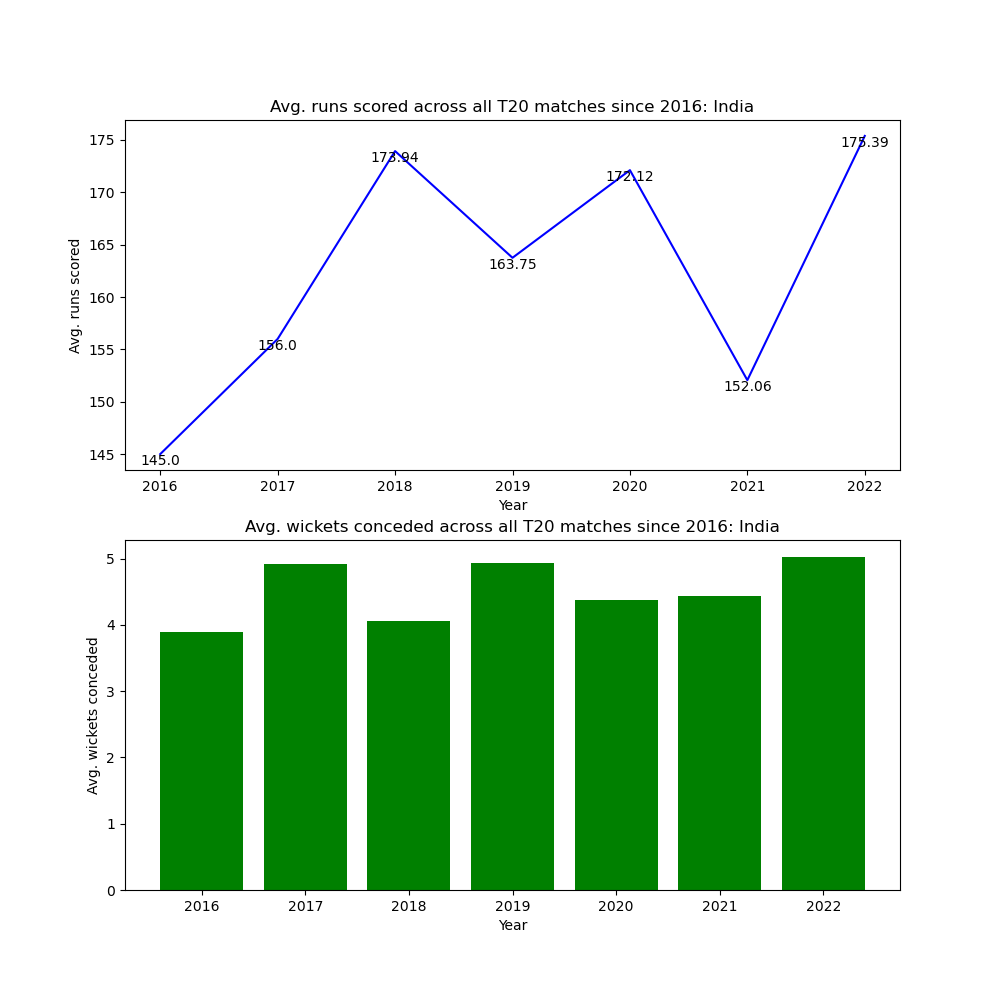
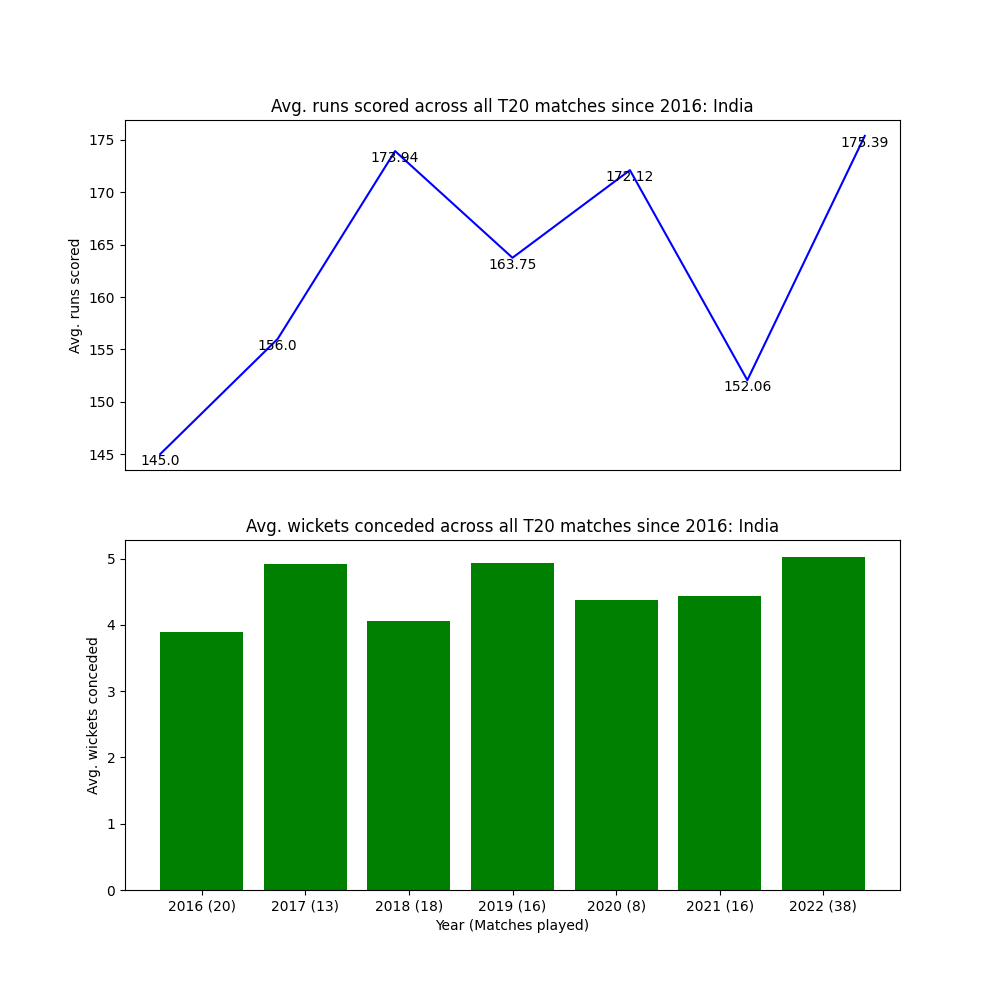
updated win-loss ordering and changed x axis for plot2

diff --git a/DataVisualization/plots_1_2_3.py b/DataVisualization/plots_1_2_3.py
@@ -155,6 +155,9 @@ def make_plots_2(db, team_1, team_2 = "All"):
         country_data = country_data.loc[(country_data['team_B'] == team_2)]
 
     years = np.sort(list(country_data.year.unique())) 
+    num_matches = []
+    num_matches_bat = []
+    num_matches_ball = []
 
     for year_ref in years:
         year_data = country_data.loc[(country_data['year'] == year_ref)]
@@ -202,6 +205,9 @@ def make_plots_2(db, team_1, team_2 = "All"):
         except:
             avg_wickets_ball = 0
         avg_score_record.append((year_ref, np.round((num_score_total/total_matches),2), np.round(num_wickets_total/total_matches, 2), avg_score_bat, avg_wickets_bat, avg_score_ball, avg_wickets_ball))
+        num_matches.append(f"{year_ref} ({total_matches})")
+        num_matches_ball.append(f"{year_ref} ({total_matches_ball})")
+        num_matches_bat.append(f"{year_ref} ({total_matches_bat})")
     avg_score_df = pd.DataFrame.from_records(avg_score_record, columns=["year", "score_total", "wickets_total", "score_bat", "wickets_bat", "score_ball", "wickets_ball"])
     avg_score_df = avg_score_df.set_index("year")
 
@@ -220,20 +226,19 @@ def make_plots_2(db, team_1, team_2 = "All"):
         ax[0].set_title("Avg. runs scored across all T20 matches since 2016: "+str(team_1), loc='center')
     else:
         ax[0].set_title("Avg. runs scored against "+str(team_2)+" in all T20I matches since 2016: "+str(team_1), loc='center')
-    ax[0].set_xlabel('Year')
     ax[0].set_ylabel('Avg. runs scored')
-    ax[0].set_xticks(r) 
-    ax[0].set_xticklabels(years)
+    ax[0].set_xticks([]) 
+    ax[0].set_xticklabels([])
 
     ax[1].bar(r, avg_score_df.iloc[:,1], color = 'g')
     if team_2 == "All":
         ax[1].set_title('Avg. wickets conceded across all T20 matches since 2016: '+str(team_1), loc='center')
     else:
         ax[1].set_title('Avg. wickets conceded against '+str(team_2)+' in all T20I matches since 2016: '+str(team_1), loc='center')
-    ax[1].set_xlabel('Year')
+    ax[1].set_xlabel('Year (Matches played)')
     ax[1].set_ylabel('Avg. wickets conceded')
     ax[1].set_xticks(r) 
-    ax[1].set_xticklabels(years)
+    ax[1].set_xticklabels(num_matches)
 
     k = 0
     for i in set_labels_total:
@@ -249,20 +254,19 @@ def make_plots_2(db, team_1, team_2 = "All"):
         ax[0].set_title('Avg. runs scored across all T20 matches batting first since 2016: '+str(team_1), loc='center')
     else:
         ax[0].set_title('Avg. runs scored against '+str(team_2)+' in all T20I matches batting first since 2016: '+str(team_1), loc='center')
-    ax[0].set_xlabel('Year')
     ax[0].set_ylabel('Avg. runs scored')
-    ax[0].set_xticks(r) 
-    ax[0].set_xticklabels(years)
+    ax[0].set_xticks([]) 
+    ax[0].set_xticklabels([])
 
     ax[1].bar(r, avg_score_df.iloc[:,3], color = 'g')
     if team_2 == "All":
         ax[1].set_title('Avg. wickets conceded across all T20 matches batting first since 2016: '+str(team_1), loc='center')
     else:
         ax[1].set_title('Avg. wickets conceded against '+str(team_2)+' in all T20I matches batting first since 2016: '+str(team_1), loc='center')
-    ax[1].set_xlabel('Year')
+    ax[1].set_xlabel('Years (Matches Played)')
     ax[1].set_ylabel('Avg. wickets conceded')
     ax[1].set_xticks(r) 
-    ax[1].set_xticklabels(years)
+    ax[1].set_xticklabels(num_matches_bat)
 
     k = 0
     for i in set_labels_bat:
@@ -278,20 +282,19 @@ def make_plots_2(db, team_1, team_2 = "All"):
         ax[0].set_title('Avg. runs scored across all T20 matches batting second since 2016: '+str(team_1), loc='center')
     else:
         ax[0].set_title('Avg. runs scored against '+str(team_2)+' in all T20I matches batting second since 2016: '+str(team_1), loc='center')
-    ax[0].set_xlabel('Year')
     ax[0].set_ylabel('Avg. runs scored')
-    ax[0].set_xticks(r) 
-    ax[0].set_xticklabels(years)
+    ax[0].set_xticks([]) 
+    ax[0].set_xticklabels([])
 
     ax[1].bar(r, avg_score_df.iloc[:,5], color = 'g')
     if team_2 == "All":
         ax[1].set_title('Avg. wickets conceded across all T20 matches batting second since 2016: '+str(team_1), loc='center')
     else:
         ax[1].set_title('Avg. wickets conceded against '+str(team_2)+' in all T20I matches batting second since 2016: '+str(team_1), loc='center')
-    ax[1].set_xlabel('Year')
+    ax[1].set_xlabel('Years (Matches Played)')
     ax[1].set_ylabel('Avg. wickets conceded')
     ax[1].set_xticks(r) 
-    ax[1].set_xticklabels(years)
+    ax[1].set_xticklabels(num_matches_ball)
 
     k = 0
     for i in set_labels_ball:

diff --git a/DataVisualization/win_loss.py b/DataVisualization/win_loss.py
@@ -18,7 +18,7 @@ def winloss(full_data: pd.DataFrame):
         num_wins = sum(country_data['winner'] == country)
         total_matches = country_data['winner'].size
         win_loss_records.append((total_matches, num_wins, country))
-    win_loss_records.sort(key=lambda x:x[0], reverse=True)
+    win_loss_records.sort(key=lambda x:x[1]/x[0], reverse=True)
     win_loss_df = pd.DataFrame.from_records(win_loss_records, columns=['total_matches', "num_wins", "country"])
     
     f, ax = plt.subplots(figsize=(12, 6))
@@ -44,6 +44,6 @@ def winloss(full_data: pd.DataFrame):
 
 if __name__ == "__main__":
     BASE_PATH = os.getcwd()
-    DATABASE_PATH = os.path.join(BASE_PATH, "DataProcessing", "Result.csv")
+    DATABASE_PATH = os.path.join(BASE_PATH, "DataProcessing", "result_post_step.csv")
     database = pd.read_csv(DATABASE_PATH)
     winloss(database)
